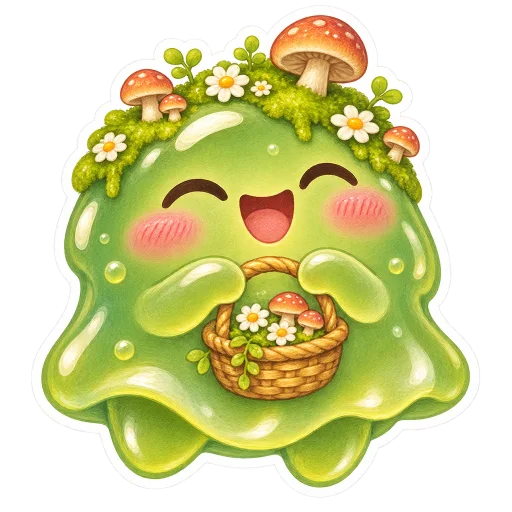
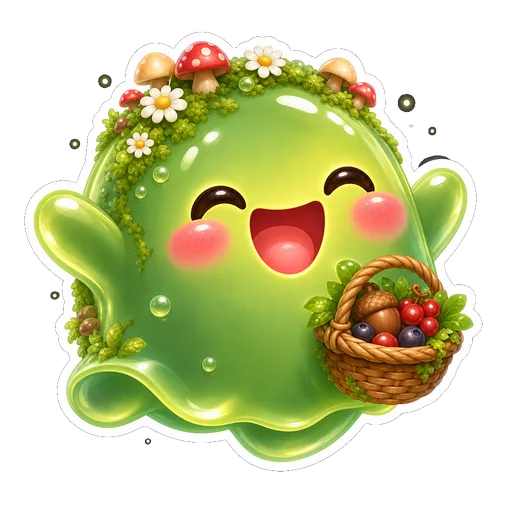
70 Blips: clean explorer art + 40 new Blips
- All 30 original Blips swapped to the clean explorer-style art
- 40 new Blips (explorer wave, from Override / Treasure Hunter cues):
  entries in blips.ts + seed migration 003_new_blips.sql (applied)
- Mapsy uses its paper-origami redesign
- SVG-era fields (shape/eyes/mouth/extras) now optional; art is images
- Roster test now 24/20/15/11 = 70; "collect all" copy uses the real count

diff --git a/src/game/blips.ts b/src/game/blips.ts
@@ -19,10 +19,11 @@ export interface Blip {
   escapeLine: string
   color: string
   color2: string
-  shape: Shape
-  eyes: Eyes
-  mouth: Mouth
-  extras: Extra[]
+  // SVG-era fields: art is now images, so newer Blips leave these out.
+  shape?: Shape
+  eyes?: Eyes
+  mouth?: Mouth
+  extras?: Extra[]
   idle: Idle
 }
 
@@ -65,6 +66,52 @@ export const BLIPS: Blip[] = [
   { id: 'finalboss', name: 'Final Boss', rarity: 4, trait: 'Cosmic', bio: 'A whole galaxy lives inside it. It has been waiting for a worthy challenger.', catchLine: 'You... are worthy.', escapeLine: 'Final Boss opened a wormhole and left.', color: '#5B2BD9', color2: '#16093F', shape: 'drop', eyes: 'glow', mouth: 'none', extras: ['galaxy'], idle: 'float' },
   { id: 'villainera', name: 'Villain Era', rarity: 4, trait: 'Stormy', bio: 'Was nice once. Then it got left on read. Now it brings the storm.', catchLine: 'Fine. Redemption arc unlocked.', escapeLine: 'Villain Era spun off in a tornado.', color: '#4A4E6B', color2: '#1C1E30', shape: 'blob', eyes: 'angry', mouth: 'smirk', extras: ['cloud'], idle: 'sway' },
   { id: 'lore', name: 'Lore', rarity: 4, trait: 'Ancient', bio: 'Older than the internet. Knows the deep lore of every Blip that ever lived.', catchLine: 'The runes foretold this.', escapeLine: 'Lore crumbled to sand and drifted off.', color: '#9C8F7A', color2: '#5E5444', shape: 'boxy', eyes: 'glow', mouth: 'flat', extras: ['runes'], idle: 'breathe' },
+
+  // ── Explorer wave (Override / Treasure Hunter cues) ──
+  // 1★ Common
+  { id: "bestie", name: "Bestie", rarity: 1, trait: "Loyal", bio: "Will hype your worst set like it was a world record.", catchLine: "Bestie for life. Literally.", escapeLine: "Bestie said \"brb\" and never came back.", color: "#FF9A7A", color2: "#E5674A", idle: "bounce" },
+  { id: "scout", name: "Scout", rarity: 1, trait: "Excited explorer", bio: "Has a map for everywhere. Has never once read one.", catchLine: "New map unlocked!", escapeLine: "Scout wandered off to explore.", color: "#3FD6C6", color2: "#1A9C95", idle: "bounce" },
+  { id: "shrubby", name: "Shrubby", rarity: 1, trait: "Bashful", bio: "Thinks it is invisible in a hedge. It is not.", catchLine: "...you found me?", escapeLine: "Shrubby blended back into a hedge.", color: "#7BD45A", color2: "#3E8F2E", idle: "breathe" },
+  { id: "floaty", name: "Floaty", rarity: 1, trait: "Helpful", bio: "Lights the way for lost reps. Very gentle. Very floaty.", catchLine: "Lighting the way!", escapeLine: "Floaty drifted off on its cloud.", color: "#A8F0D2", color2: "#62C9A3", idle: "float" },
+  { id: "shieldy", name: "Shieldy", rarity: 1, trait: "Protective", bio: "Guards its egg, its snacks and your streak.", catchLine: "Guarded. Protected. Caught.", escapeLine: "Shieldy rolled away hugging its egg.", color: "#8FD3FF", color2: "#4A9BD6", idle: "sway" },
+  { id: "snacky", name: "Snacky", rarity: 1, trait: "Snack-loving wanderer", bio: "Will follow you anywhere if you have crackers.", catchLine: "Got any crackers?", escapeLine: "Snacky followed a snack trail away.", color: "#FFD25A", color2: "#E5A21F", idle: "bounce" },
+  { id: "partyy", name: "Partyy", rarity: 1, trait: "Party animal", bio: "Every rep is a party. Every set is the afterparty.", catchLine: "LET'S GOOO!", escapeLine: "Partyy left for the afterparty.", color: "#FFF1D6", color2: "#FFB0D9", idle: "jitter" },
+  { id: "gizmo", name: "Gizmo", rarity: 1, trait: "Tinkerer", bio: "Fixed the same thing nine times. It is now worse.", catchLine: "Fixed it! (I think.)", escapeLine: "Gizmo clanked off to fix something else.", color: "#E08A3C", color2: "#A65A1D", idle: "wobble" },
+  { id: "finn", name: "Finn", rarity: 1, trait: "Proud swimmer", bio: "Found one seashell. Will not stop talking about it.", catchLine: "Want to see my shell?", escapeLine: "Finn swam back to the shallows.", color: "#4FB4FF", color2: "#1E73C9", idle: "float" },
+  { id: "northy", name: "Northy", rarity: 1, trait: "Guide", bio: "Always knows where north is. Rarely knows where it is.", catchLine: "North is... that way!", escapeLine: "Northy followed its compass. Wrong way.", color: "#8EC9FF", color2: "#4F8FD6", idle: "sway" },
+  { id: "squiddy", name: "Squiddy", rarity: 1, trait: "Curious kid", bio: "Pokes everything. Has been bitten by most things.", catchLine: "Ooh, what's this?", escapeLine: "Squiddy wiggled off to poke a crab.", color: "#FF8FC8", color2: "#E0559A", idle: "wobble" },
+  { id: "splash", name: "Splash", rarity: 1, trait: "Hype", bio: "Screams every time you finish a set. Gets everyone wet.", catchLine: "SPLASHHH!", escapeLine: "Splash dove into a puddle and vanished.", color: "#3FE0E8", color2: "#13A5B8", idle: "bounce" },
+  // 2★ Uncommon
+  { id: "speedrun", name: "Speedrun", rarity: 2, trait: "Competitive", bio: "Has a personal best for everything, including blinking.", catchLine: "New PB!", escapeLine: "Speedrun was gone before you blinked.", color: "#FF8A2E", color2: "#D9560E", idle: "jitter" },
+  { id: "rival", name: "Rival", rarity: 2, trait: "Serious rival", bio: "Does one more rep than you. Every time.", catchLine: "Fine. Rematch tomorrow.", escapeLine: "Rival stormed off to train.", color: "#E5324A", color2: "#9E1529", idle: "sway" },
+  { id: "eightbit", name: "8-Bit", rarity: 2, trait: "Retro", bio: "Speaks only in bloops. Lives at 60 frames a second.", catchLine: "*happy bloop*", escapeLine: "8-Bit despawned.", color: "#4F8BFF", color2: "#2047C9", idle: "jitter" },
+  { id: "turbo", name: "Turbo", rarity: 2, trait: "Kinetic", bio: "Strapped a rocket to itself. Does not regret it.", catchLine: "Full throttle!", escapeLine: "Turbo rocketed into the sky.", color: "#2E9BFF", color2: "#1257C9", idle: "float" },
+  { id: "puddle", name: "Puddle", rarity: 2, trait: "Hop-happy", bio: "Never met a lily pad it did not jump on.", catchLine: "Ribbit! Caught!", escapeLine: "Puddle hopped to the next lily pad.", color: "#49D9A0", color2: "#1F9E6E", idle: "bounce" },
+  { id: "breezy", name: "Breezy", rarity: 2, trait: "Weather-watcher", bio: "Can smell rain three days away. Also smells snacks.", catchLine: "Feels like a catch kind of day.", escapeLine: "Breezy blew away on a gust.", color: "#EAF4FF", color2: "#A9C6E8", idle: "float" },
+  { id: "scrapz", name: "Scrapz", rarity: 2, trait: "Scavenger", bio: "Keeps everything. Especially the things you threw out.", catchLine: "Ooh, can I keep you?", escapeLine: "Scrapz ran off with your bottle cap.", color: "#D9692E", color2: "#9E4317", idle: "wobble" },
+  { id: "honeybun", name: "Honeybun", rarity: 2, trait: "Beekeeper", bio: "Its bees are its best friends. The bees agree.", catchLine: "Bzz! Sweet catch.", escapeLine: "Honeybun buzzed off with its bees.", color: "#FFB43A", color2: "#D97E0F", idle: "float" },
+  { id: "duo", name: "Duo", rarity: 2, trait: "Two-sided", bio: "Half morning person, half night owl. Fully confusing.", catchLine: "Good morning AND good night!", escapeLine: "Duo split up and left both ways.", color: "#FFD84D", color2: "#2B3F99", idle: "sway" },
+  { id: "pockets", name: "Pockets", rarity: 2, trait: "Treasure seeker", bio: "Forty pockets. Thirty-nine of them have snacks.", catchLine: "Check pocket thirty-nine.", escapeLine: "Pockets jingled away.", color: "#D9B47A", color2: "#A07E45", idle: "bounce" },
+  { id: "kelp", name: "Kelp", rarity: 2, trait: "Healer", bio: "Very calm. Makes everyone else calm. Suspiciously calm.", catchLine: "Breathe in. Caught.", escapeLine: "Kelp drifted back to the reef.", color: "#7FE6C2", color2: "#3AAE8C", idle: "breathe" },
+  { id: "ping", name: "Ping", rarity: 2, trait: "Messenger", bio: "Delivering your message. ETA: eventually.", catchLine: "Message delivered!", escapeLine: "Ping left. Slowly.", color: "#A3A9B8", color2: "#6B7180", idle: "sway" },
+  // 3★ Epic
+  { id: "boing", name: "Boing", rarity: 3, trait: "Springy", bio: "Cannot stand still. Has tried. Bounced off the ceiling.", catchLine: "BOING! Caught!", escapeLine: "Boing bounced over the horizon.", color: "#A6F03A", color2: "#6CB516", idle: "bounce" },
+  { id: "parkour", name: "Parkour", rarity: 3, trait: "Acrobat", bio: "Will not use stairs. Has never used stairs.", catchLine: "Stuck the landing.", escapeLine: "Parkour flipped over a wall and left.", color: "#6B7A8F", color2: "#3E4A5C", idle: "jitter" },
+  { id: "scanz", name: "Scanz", rarity: 3, trait: "Analyst", bio: "Has already counted your reps. And judged them.", catchLine: "Scan complete: you're cool.", escapeLine: "Scanz beamed itself away.", color: "#B49CFF", color2: "#7656D6", idle: "float" },
+  { id: "jumpscare", name: "Jumpscare", rarity: 3, trait: "Easily startled", bio: "Scared of loud noises, quiet noises and its own reflection.", catchLine: "AAH! Oh. It's you.", escapeLine: "Jumpscare got spooked and vanished.", color: "#B8D4FF", color2: "#7A9CE0", idle: "jitter" },
+  { id: "dreamy", name: "Dreamy", rarity: 3, trait: "Gentle helper", bio: "Sprinkles good luck on your next catch. Probably.", catchLine: "Sweet dreams, catcher.", escapeLine: "Dreamy floated off on a sparkle.", color: "#FFB8DA", color2: "#E57AAE", idle: "float" },
+  { id: "countwobble", name: "Count Wobble", rarity: 3, trait: "Dramatic", bio: "Only comes out at night. Insists on a dramatic entrance.", catchLine: "Bleh! Caught dramatically.", escapeLine: "Count Wobble swept away in its cape.", color: "#9E1F3D", color2: "#5C0E22", idle: "sway" },
+  { id: "antlers", name: "Antlers", rarity: 3, trait: "Fearless", bio: "Graceful, quiet, and will absolutely not back down.", catchLine: "A worthy catch.", escapeLine: "Antlers bounded into the forest.", color: "#3FAE6B", color2: "#1E6E40", idle: "breathe" },
+  { id: "mapsy", name: "Mapsy", rarity: 3, trait: "Cartographer", bio: "Draws a map of everywhere it goes. X always marks you.", catchLine: "X marks the catch!", escapeLine: "Mapsy folded itself up and blew away.", color: "#E8D3A8", color2: "#B89A62", idle: "wobble" },
+  { id: "slam", name: "Slam", rarity: 3, trait: "Show-off", bio: "Does not land. It ARRIVES.", catchLine: "BOOM. Arrived.", escapeLine: "Slam leapt off with a shockwave.", color: "#23C2B5", color2: "#0E8A80", idle: "bounce" },
+  // 4★ Legendary
+  { id: "fancy", name: "Fancy", rarity: 4, trait: "Regal perfectionist", bio: "Has opinions about your form. All of them are correct.", catchLine: "Acceptable. Barely.", escapeLine: "Fancy left. It had tea plans.", color: "#C9A6FF", color2: "#8F63D9", idle: "sway" },
+  { id: "chonk", name: "Chonk", rarity: 4, trait: "Gentle giant", bio: "Huge. Hungry. Would never hurt a fly. Might eat one.", catchLine: "Big hug!", escapeLine: "Chonk waddled off for snacks.", color: "#C98A4E", color2: "#8A5527", idle: "breathe" },
+  { id: "spinout", name: "Spinout", rarity: 4, trait: "Whirlwind", bio: "Spun so fast it forgot which way it was going.", catchLine: "Wheee... wait, caught?", escapeLine: "Spinout spun off into the distance.", color: "#A46BFF", color2: "#6A2FD6", idle: "wobble" },
+  { id: "phantom", name: "Phantom", rarity: 4, trait: "Ghostly speedster", bio: "Was here. Now it is not. Was that a Blip?", catchLine: "Boo! ...you saw me?", escapeLine: "Phantom vanished mid-zoom.", color: "#CFE8FF", color2: "#7FB2E6", idle: "float" },
+  { id: "wishy", name: "Wishy", rarity: 4, trait: "Wish-maker", bio: "Grants one wish per day. Today's wish: more reps.", catchLine: "Your wish came true.", escapeLine: "Wishy granted itself a holiday.", color: "#FFF6D6", color2: "#E8C35A", idle: "float" },
+  { id: "capnwobble", name: "Cap'n Wobble", rarity: 4, trait: "Treasure pirate", bio: "Claims every chest it sees. Has never opened one.", catchLine: "Arr, ye caught me fair!", escapeLine: "Cap'n Wobble sailed off with the treasure.", color: "#3FBF8F", color2: "#1E7A5A", idle: "sway" },
+  { id: "moonbeam", name: "Moonbeam", rarity: 4, trait: "Dream drifter", bio: "Sleeps on the moon. Wakes up only for legendary reps.", catchLine: "Zzz... caught... zzz", escapeLine: "Moonbeam drifted back to the moon.", color: "#F2EEDC", color2: "#C9C2A0", idle: "breathe" },
 ]
 
 export const blipById = (id: string) => BLIPS.find((b) => b.id === id)!

diff --git a/src/game/achievements.ts b/src/game/achievements.ts
@@ -10,7 +10,7 @@ export const ACHIEVEMENTS: { id: string; icon: string; name: string; desc: strin
   { id: 'ten', icon: '🔟', name: 'Ten Deep', desc: 'Collect 10 different Blips', done: (_, c) => c.size >= 10 },
   { id: 'commons', icon: '🟢', name: 'Common Ground', desc: 'Collect every 1★ Blip', done: all(1) },
   { id: 'legend', icon: '👑', name: 'Legend Hunter', desc: 'Catch any 4★ Blip', done: (_, c) => BLIPS.some((b) => b.rarity === 4 && c.has(b.id)) },
-  { id: 'all', icon: '🏆', name: "Gotta Blip 'Em All", desc: 'Collect all 30 Blips', done: (_, c) => c.size >= BLIPS.length },
+  { id: 'all', icon: '🏆', name: "Gotta Blip 'Em All", desc: `Collect all ${BLIPS.length} Blips`, done: (_, c) => c.size >= BLIPS.length },
   { id: 'fire', icon: '🔥', name: 'On Fire', desc: '3-day streak', done: (p) => p.best_streak >= 3 },
   { id: 'unstoppable', icon: '⚡', name: 'Unstoppable', desc: '7-day streak', done: (p) => p.best_streak >= 7 },
   { id: 'century', icon: '💯', name: 'Century', desc: '100 pushups in one session', done: (p) => p.best_session >= 100 },

diff --git a/src/screens/Onboarding.tsx b/src/screens/Onboarding.tsx
@@ -6,7 +6,7 @@ import { supabase } from '../lib/supabase'
 const SLIDES = [
   { art: '/art/onboard-1.webp', title: 'Every rep sends a blip', body: 'Pick a pushup target. Each rep sends out a ripple that lures in a Blip.' },
   { art: '/art/onboard-2.webp', title: 'Catch it in a bubble', body: 'Bigger targets = better catch rates. 2 throws per Blip. Miss both? Use a Double Bubble or let it bounce.' },
-  { art: '/art/onboard-3.webp', title: 'Collect all 30', body: 'From sleepy Bedrot to the legendary GOAT. Keep your streak alive to earn more Double Bubbles.' },
+  { art: '/art/onboard-3.webp', title: 'Collect them all', body: '70 Blips, from sleepy Bedrot to the legendary GOAT. Keep your streak alive to earn more Double Bubbles.' },
 ]
 
 export function Onboarding() {

diff --git a/src/game/catch.test.ts b/src/game/catch.test.ts
@@ -28,8 +28,9 @@ test('legendaries locked below 30 reps, odds always sum to 100', () => {
   }
 })
 
-test('roster is 12/8/6/4 with unique ids', () => {
+test('roster is 24/20/15/11 (70) with unique ids', () => {
   const count = (r: number) => BLIPS.filter((b) => b.rarity === r).length
-  assert.deepEqual([count(1), count(2), count(3), count(4)], [12, 8, 6, 4])
-  assert.equal(new Set(BLIPS.map((b) => b.id)).size, 30)
+  assert.deepEqual([count(1), count(2), count(3), count(4)], [24, 20, 15, 11])
+  assert.equal(new Set(BLIPS.map((b) => b.id)).size, BLIPS.length)
+  assert.equal(BLIPS.length, 70)
 })
